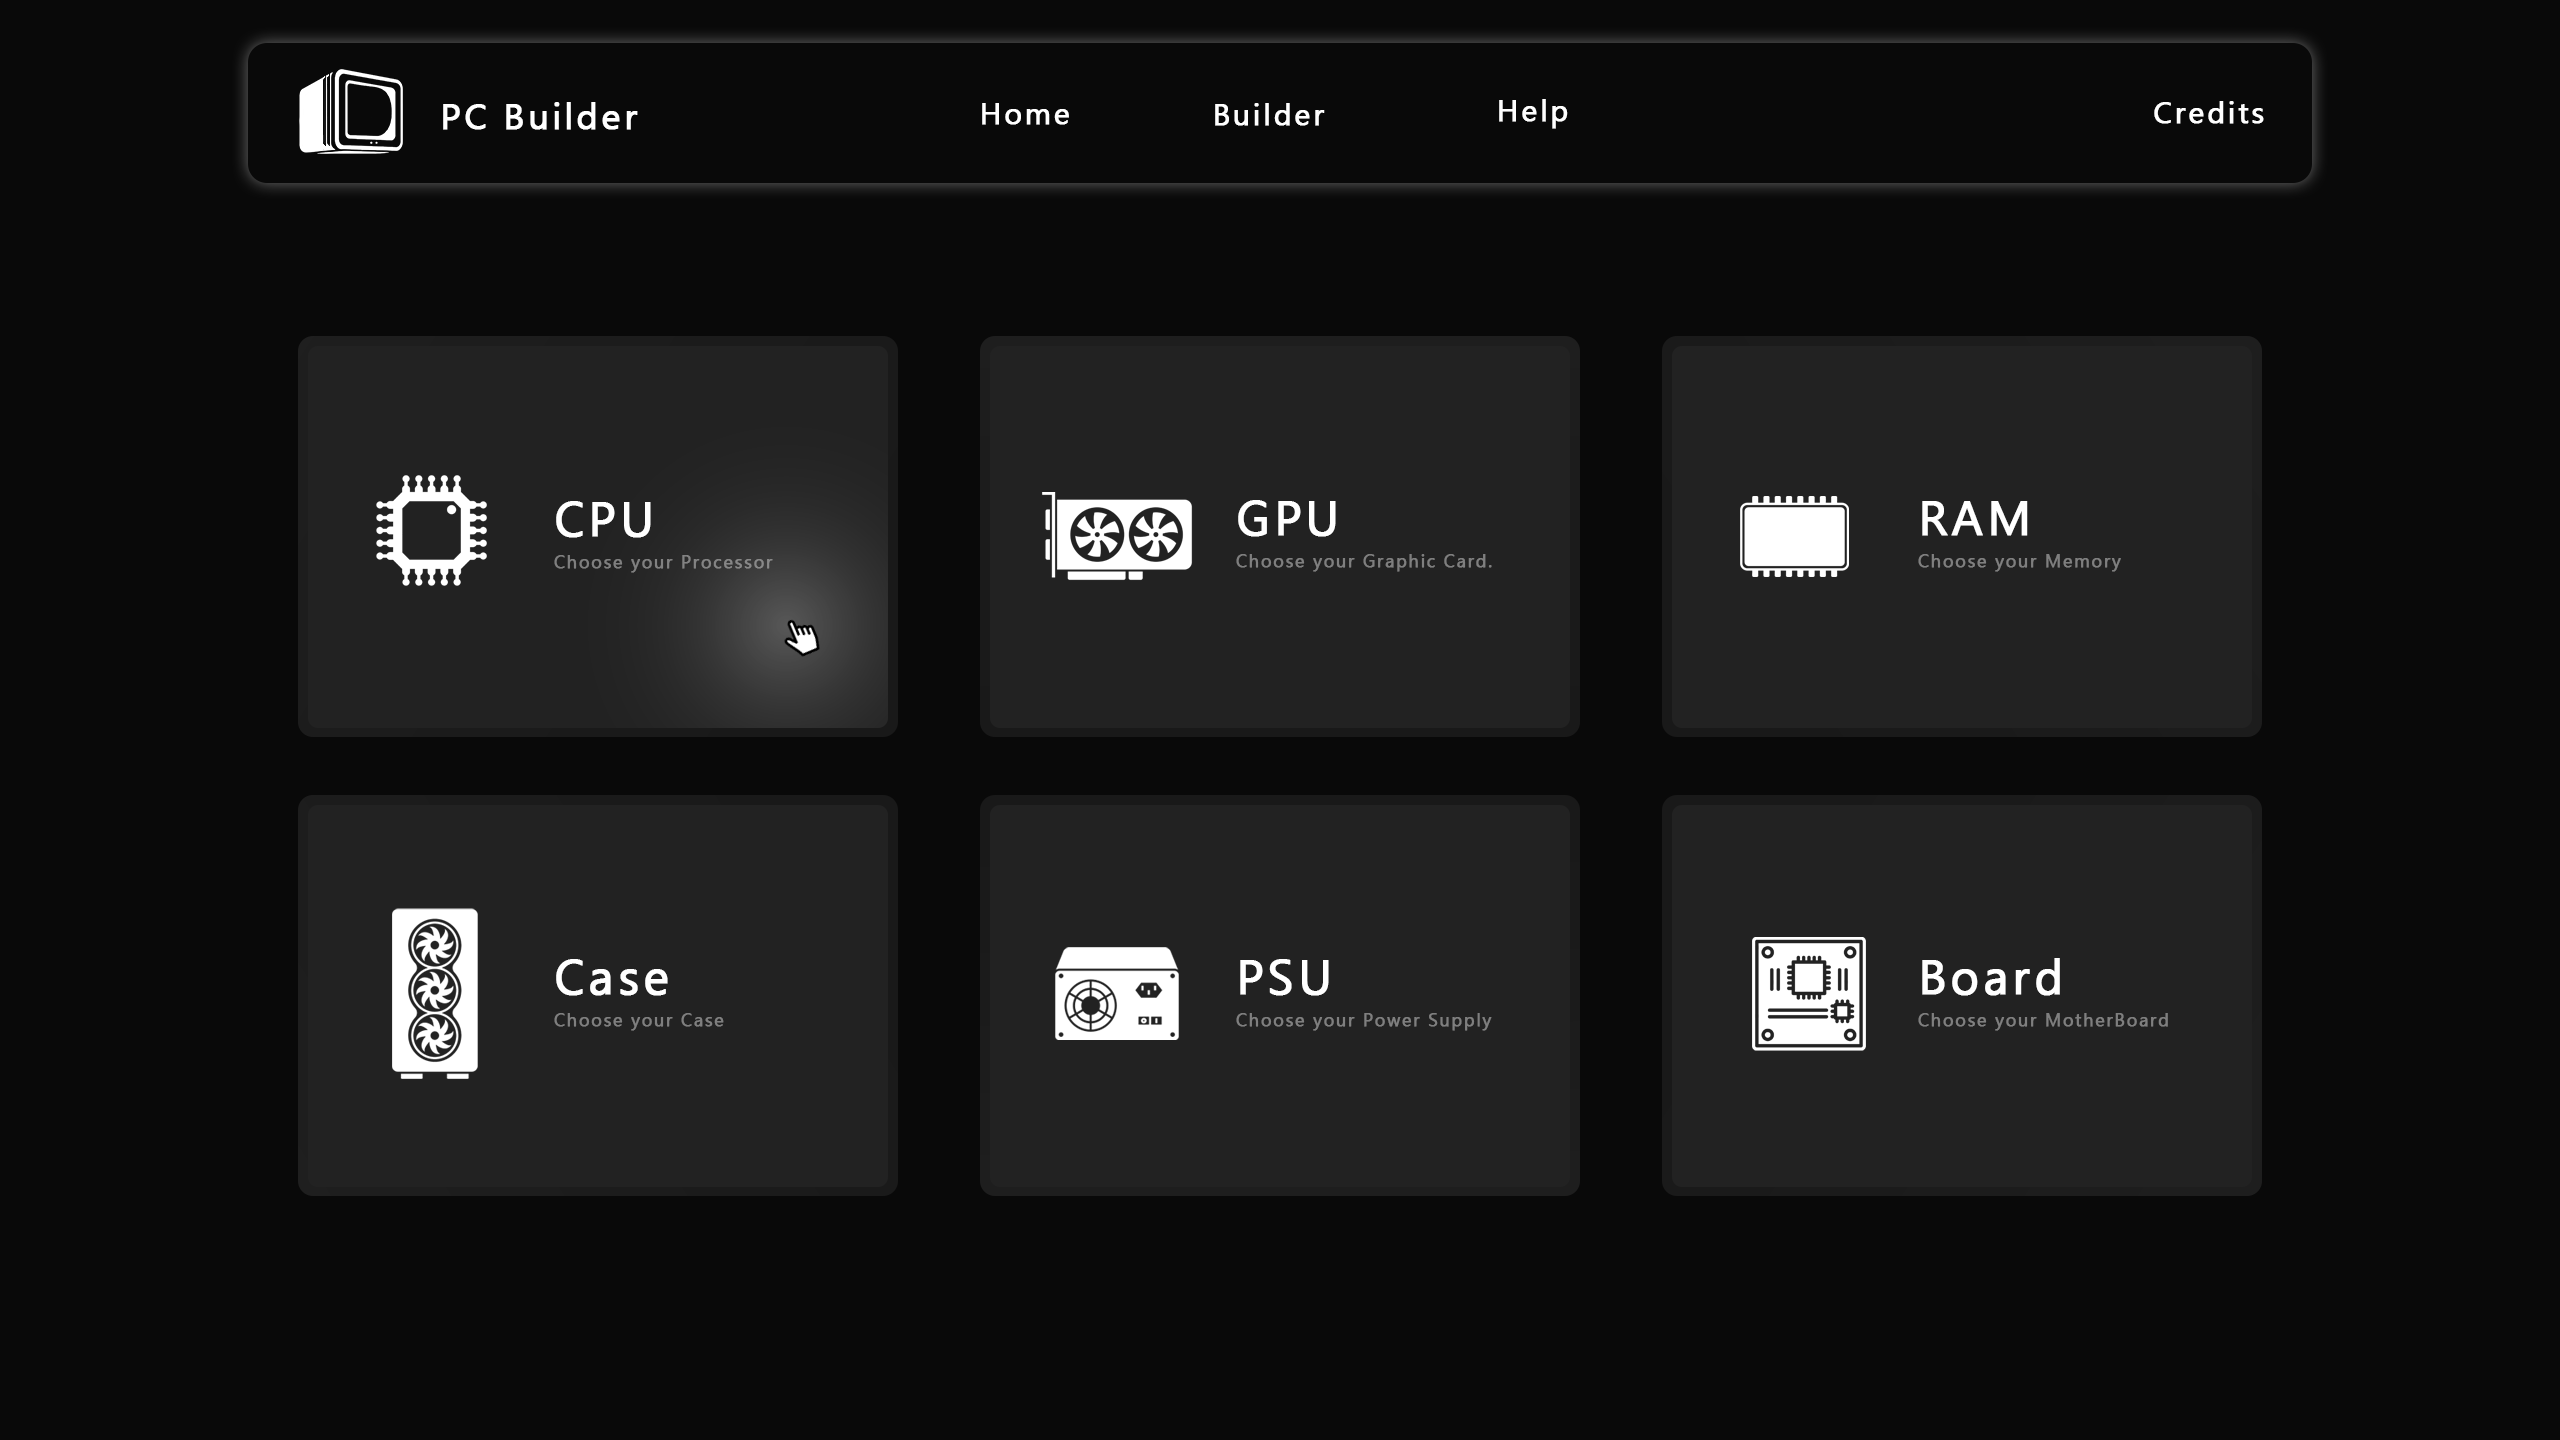
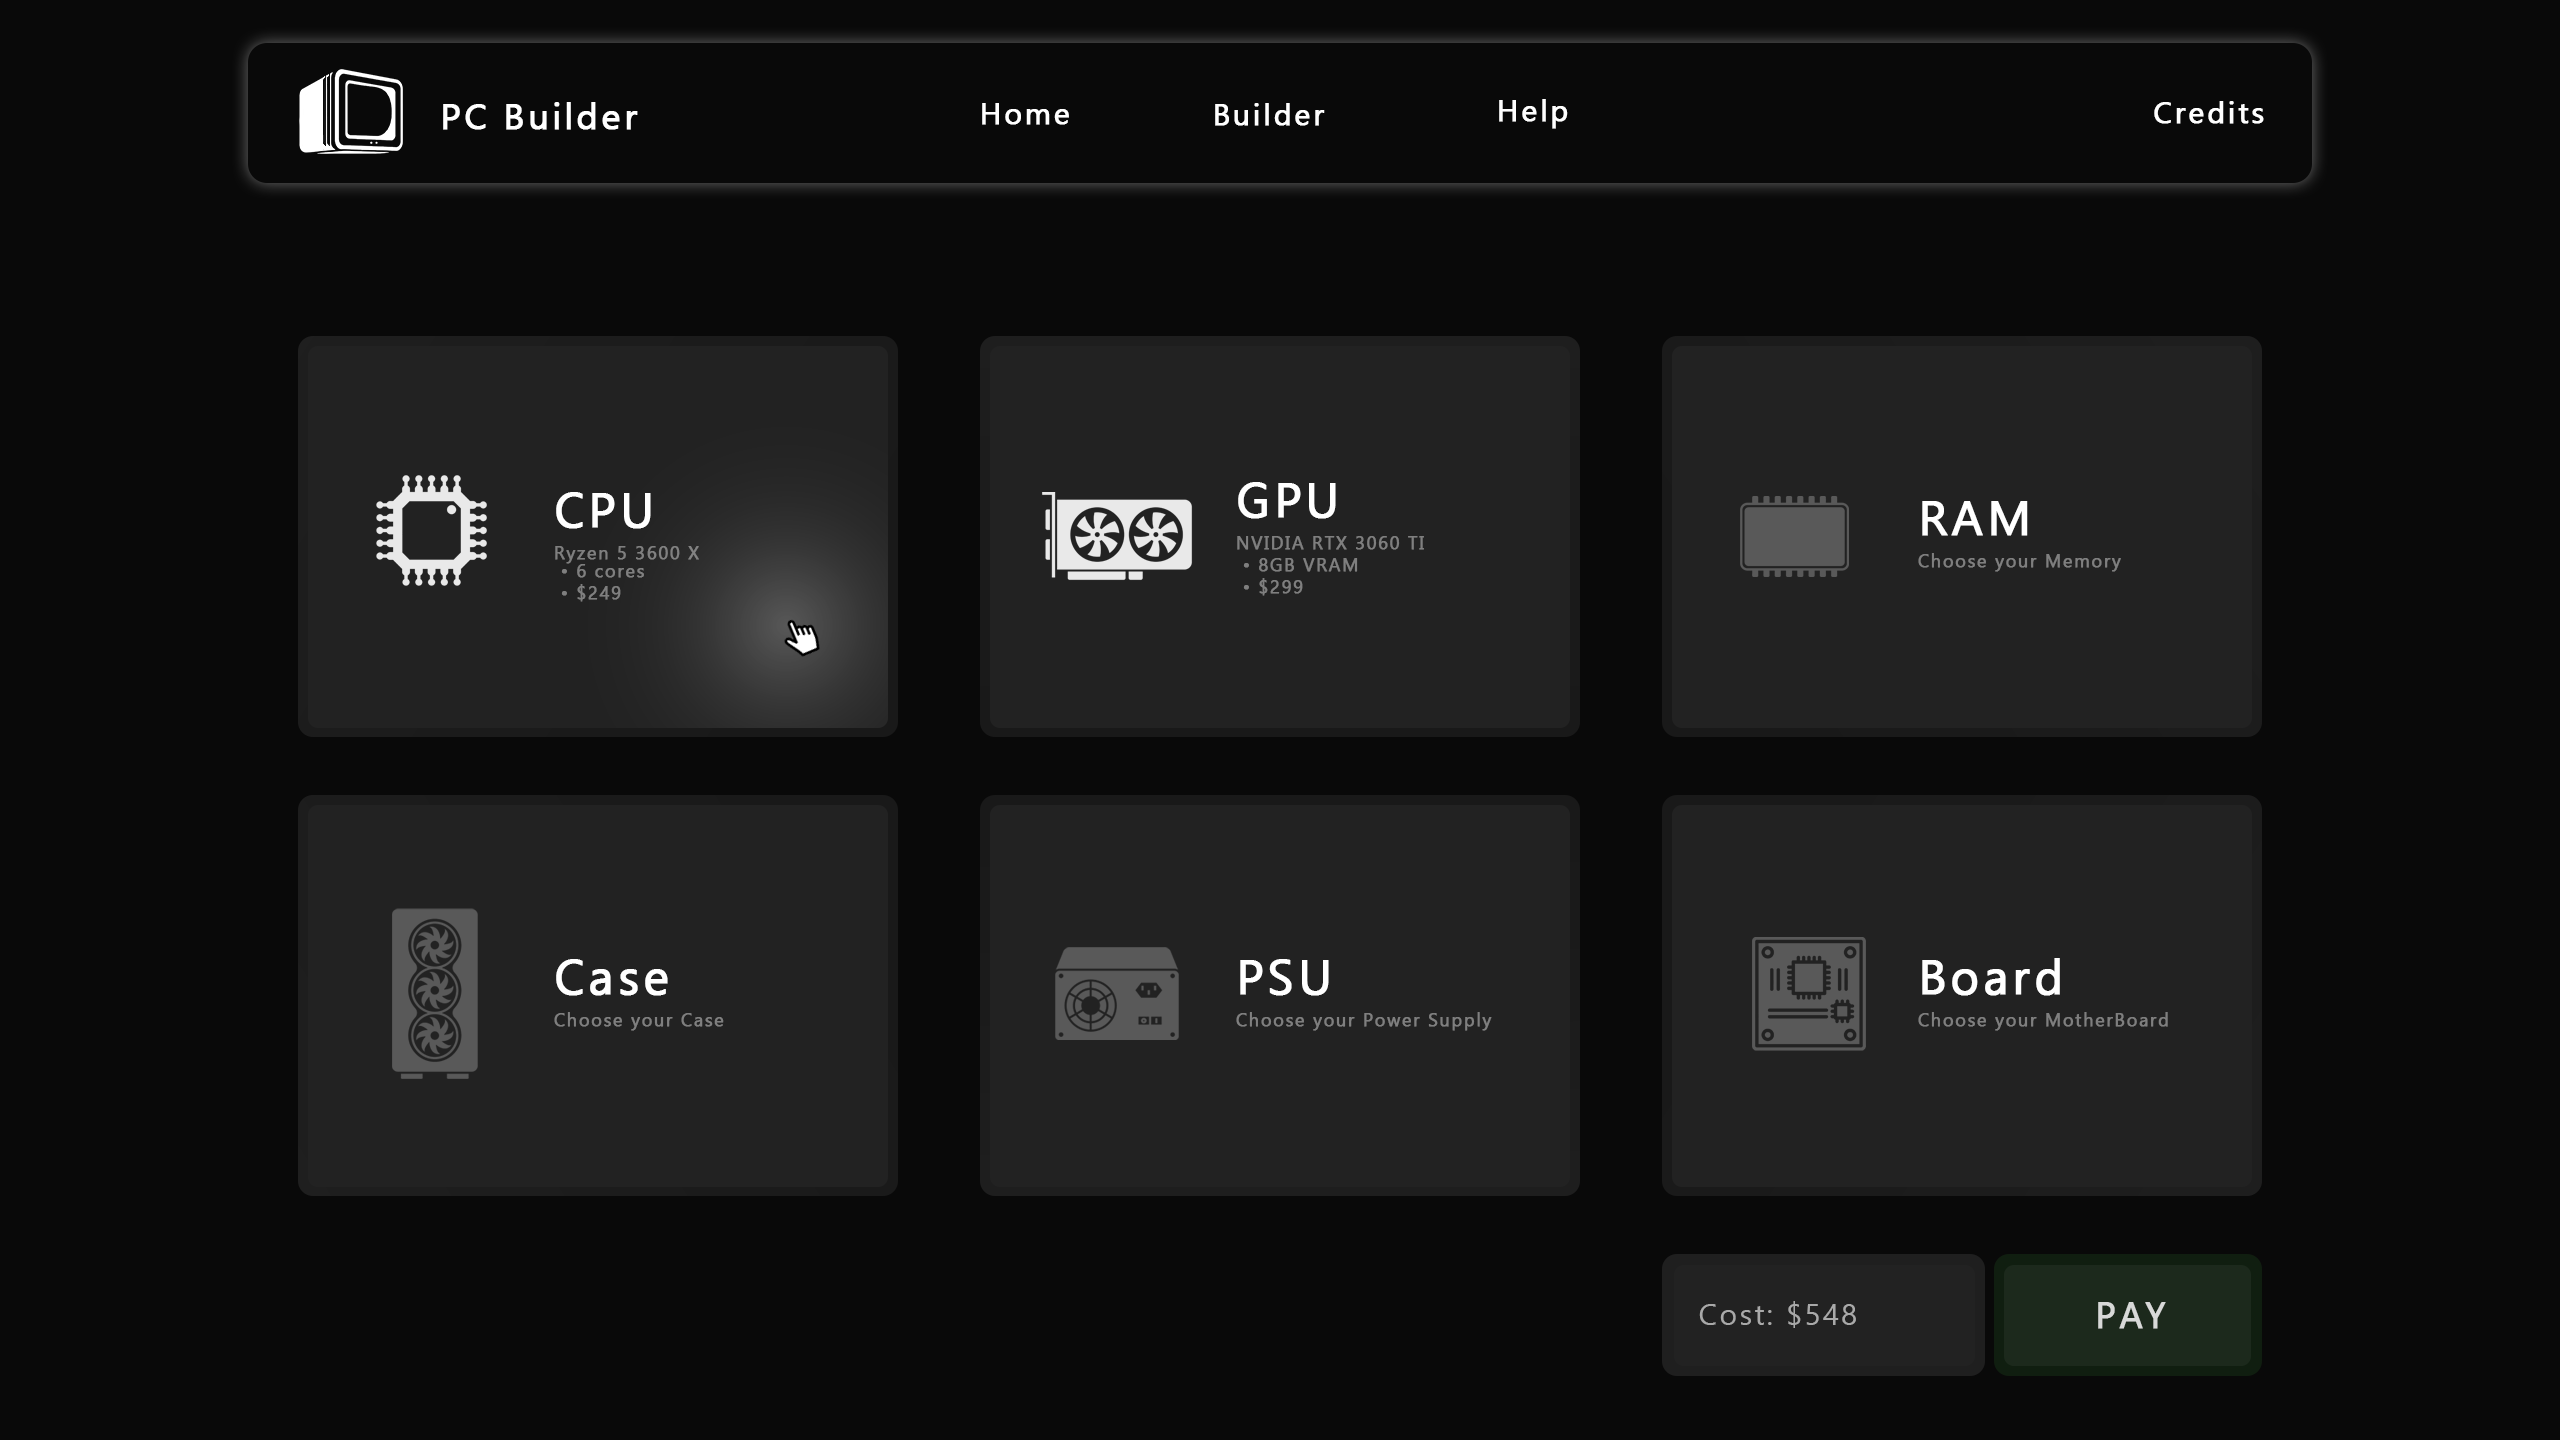
Add GuidesContent component and update navigation; refactor Hardware table schema and Tailwind config

diff --git a/frontend/src/components/pages/BuilderContent.tsx b/frontend/src/components/pages/BuilderContent.tsx
@@ -1,9 +1,130 @@
 'use client'
 
+import { motion } from "motion/react"
+import { useEffect, useState } from 'react';
+import { useSearchParams, useRouter } from 'next/navigation';
+import { Cpu } from 'lucide-react'
+
+type Build = {
+    cpu: string,
+    gpu: string,
+    ram: string,
+    storage: string,
+    motherboard: string,
+    psu: string,
+    case: string
+}
+
 export default function BuilderContent() {
+    const searchParams = useSearchParams();
+    const router = useRouter();
+    
+        const containerVariants = {
+            hidden: {
+                opacity: 0
+            },
+            visible: {
+                opacity: 1,
+                transition: {
+                    delayChildren: 0.3,
+                    staggerChildren: 0.2
+                }
+            }
+        }
+
+    const buttonVariants = {
+        hidden: { opacity: 0, y: 20 },
+        visible: {
+            opacity: 1,
+            y: 0,
+            transition: {
+                duration: 0.5
+            }
+        },
+        hover: {
+            scale: 1.05,
+            transition: {
+                duration: 0.2
+            }
+        },
+        tap: {
+            scale: 0.95,
+            transition: {
+                duration: 0.2
+            }
+        }
+    }
+
+    const currentBuild: Build = {
+        cpu: '',
+        gpu: '',
+        ram: '',
+        storage: '',
+        motherboard: '',
+        psu: '',
+        case: ''
+    };
+
+    useEffect(() => {
+        let config = searchParams.get("config")
+    })
+
     return (
         <div className="w-full mt-32 lg:mt-5">
-            Builder Content
+            <motion.div className="grid grid-cols-1 md:grid-cols-2 lg:grid-cols-3 gap-8"
+                variants={containerVariants}
+            >
+                <motion.button 
+                    className='flex p-2 rounded-lg h-64 items-center bg-light-terciary dark:bg-dark-terciary border-[7px] border-light-secondary dark:border-dark-secondary' 
+                    variants={buttonVariants}
+                    whileHover="hover"
+                    whileTap="tap"
+                    initial="hidden"
+                    animate="visible"
+                >
+                    <div className="flex items-center ml-10">
+                        <Cpu className="w-24 h-24 mr-5" />
+                        <div className="flex flex-col text-start">
+                            <h1 className="text-4xl">CPU</h1>
+                            <h2 className="text-sm">{currentBuild.cpu || "Select a CPU"}</h2>
+                        </div>
+                    </div>
+                </motion.button>
+
+                <motion.button 
+                    className='flex p-2 rounded-lg h-64 items-center bg-light-terciary dark:bg-dark-terciary border-[7px] border-light-secondary dark:border-dark-secondary' 
+                    variants={buttonVariants}
+                    whileHover="hover"
+                    whileTap="tap"
+                    initial="hidden"
+                    animate="visible"
+                >
+                    <div className="flex items-center ml-10">
+                        <Cpu className="w-24 h-24 mr-5" />
+                        <div className="flex flex-col text-start">
+                            <h1 className="text-4xl">GPU</h1>
+                            <h2 className="text-sm">{currentBuild.gpu || "Select a GPU"}</h2>
+                        </div>
+                    </div>
+                </motion.button>
+
+                <motion.button 
+                    className='flex p-2 rounded-lg h-64 items-center bg-light-terciary dark:bg-dark-terciary border-[7px] border-light-secondary dark:border-dark-secondary' 
+                    variants={buttonVariants}
+                    whileHover="hover"
+                    whileTap="tap"
+                    initial="hidden"
+                    animate="visible"
+                >
+                    <div className="flex items-center ml-10">
+                        <Cpu className="w-24 h-24 mr-5" />
+                        <div className="flex flex-col text-start">
+                            <h1 className="text-4xl">RAM</h1>
+                            <h2 className="text-sm">{currentBuild.ram || "Select a RAM"}</h2>
+                        </div>
+                    </div>
+                </motion.button>
+            </motion.div>
         </div>
     )
 }

diff --git a/frontend/src/components/pages/HomeContent.tsx b/frontend/src/components/pages/HomeContent.tsx
@@ -2,7 +2,6 @@
 
 import { motion } from "motion/react"
 import Image from "next/image"
-import { delay } from "motion"
 import { useNavigation } from "@/context/NavContext"
 import { Cpu, HardDrive, Microchip, Component, Fingerprint, Code, Github, Linkedin, Twitter, MemoryStickIcon as Memory, NotebookText as Notebook } from "lucide-react"
 
@@ -291,21 +290,21 @@ function TeamMembers() {
                         />
                         <div className="absolute inset-0 bg-gradient-to-t from-dark-secondary to-transparent opacity-70"></div>
                     </div>
-                    <div className="p-6">
+                    <div className="p-6 h-auto min-h-[132px]">
                         <h3 className="text-xl font-semibold mb-1 ">
                             {member.name}
                         </h3>
-                        <p className="mb-4">{member.role}</p>
-                        <div className="flex justify-center space-x-4">
-                            <a
-                                href={member.github}
-                                target="_blank"
-                                rel="noopener noreferrer"
-                                className="hover:text-dark-secondary hover:dark:text-light-secondary transition-colors"
-                            >
-                                <Github className="w-6 h-6" />
-                            </a>
-                        </div>
+                        <p>{member.role}</p>
+                    </div>
+                    <div className="flex justify-center space-x-4 self-end p-4">
+                        <a
+                            href={member.github}
+                            target="_blank"
+                            rel="noopener noreferrer"
+                            className="hover:text-dark-secondary hover:dark:text-light-secondary transition-colors"
+                        >
+                            <Github className="w-6 h-6" />
+                        </a>
                     </div>
                 </motion.div>
             ))}

diff --git a/frontend/src/context/NavContext.tsx b/frontend/src/context/NavContext.tsx
@@ -1,6 +1,7 @@
 'use client'
 
-import { createContext, useContext, useState, ReactNode } from 'react';
+import { createContext, useContext, useState, ReactNode, useEffect } from 'react';
+import { useSearchParams, useRouter } from 'next/navigation';
 
 type NavigationContextType = {
     activeButton: string | null;
@@ -10,10 +11,31 @@ type NavigationContextType = {
 const NavigationContext = createContext<NavigationContextType | undefined>(undefined);
 
 export function NavigationProvider({ children }: { children: ReactNode }) {
-    const [activeButton, setActiveButton] = useState<string | null>("home");
+    const searchParams = useSearchParams();
+    const router = useRouter();
+    const [activeButton, setActiveButton] = useState<string | null>(() => {
+        return searchParams.get('tab') || "home";
+    });
+
+    const handleSetActiveButton = (button: string | null) => {
+        setActiveButton(button);
+        if (button) {
+            router.push(`?tab=${button}`);
+        }
+    };
+
+    useEffect(() => {
+        const tabParam = searchParams.get('tab');
+        if (tabParam && tabParam !== activeButton) {
+            setActiveButton(tabParam);
+        }
+    }, [searchParams, activeButton]);
 
     return (
-        <NavigationContext.Provider value={{ activeButton, setActiveButton }}>
+        <NavigationContext.Provider value={{ 
+            activeButton, 
+            setActiveButton: handleSetActiveButton 
+        }}>
             {children}
         </NavigationContext.Provider>
     );

diff --git a/frontend/src/components/NavBar.tsx b/frontend/src/components/NavBar.tsx
@@ -135,18 +135,18 @@ export default function NavBar() {
 
                         <motion.button
                             variants={buttonVariants}
-                            animate={activeButton === 'help' ? 'active' : 'initial'}
+                            animate={activeButton === 'guides' ? 'active' : 'initial'}
                             onClick={() => {
-                                if (activeButton !== 'help') {
-                                    setActiveButton('help');
+                                if (activeButton !== 'guides') {
+                                    setActiveButton('guides');
                                 }
                             }}
                             initial="initial"
-                            whileHover={activeButton === 'help' ? undefined : 'initial'}
+                            whileHover={activeButton === 'guides' ? undefined : 'initial'}
                             whileTap="tap"
                             className='relative p-5 py-1 pt-5 mx-5 text-left text-lg md:text-xl lg:text-xl'
                         >
-                            <span>Help</span>
+                            <span>Guides</span>
                             <motion.div
                                 variants={underlineVariants}
                                 className='hidden lg:block'

diff --git a/frontend/src/components/NavSelector.tsx b/frontend/src/components/NavSelector.tsx
@@ -3,8 +3,8 @@
 import { useNavigation } from '@/context/NavContext';
 import AccountContent from './pages/AccountContent';
 import BuilderContent from './pages/BuilderContent';
-import HelpContent from './pages/HelpContent';
 import HomeContent from './pages/HomeContent';
+import GuidesContent from './pages/GuidesContent';
 
 export default function NavSelector() {
     const { activeButton } = useNavigation();
@@ -15,8 +15,8 @@ export default function NavSelector() {
                 return <HomeContent />;
             case 'builder':
                 return <BuilderContent />;
-            case 'help':
-                return <HelpContent />;
+            case 'guides':
+                return <GuidesContent />;
             case 'account':
                 return <AccountContent />;
             default:

diff --git a/frontend/tailwind.config.ts b/frontend/tailwind.config.ts
@@ -13,12 +13,12 @@ export default {
         dark: {
           DEFAULT: '#090909',
           secondary: '#222222',
-          terciary: '#1a1a1a'
+          terciary: '#0d0d0d'
         },
         light: {
           DEFAULT: '#f9f9f9',
           secondary: '#c4c4c4',
-          terciary: '#ababab'
+          terciary: '#dadada'
         }
       },
     },

diff --git a/frontend/src/components/pages/GuidesContent.tsx b/frontend/src/components/pages/GuidesContent.tsx
@@ -1,9 +1,9 @@
 'use client'
 
-export default function HelpContent() {
+export default function GuidesContent() {
     return (
         <div className="w-full mt-32 lg:mt-5">
-            Help Content
+            Guides Content
         </div>
     )
 }
